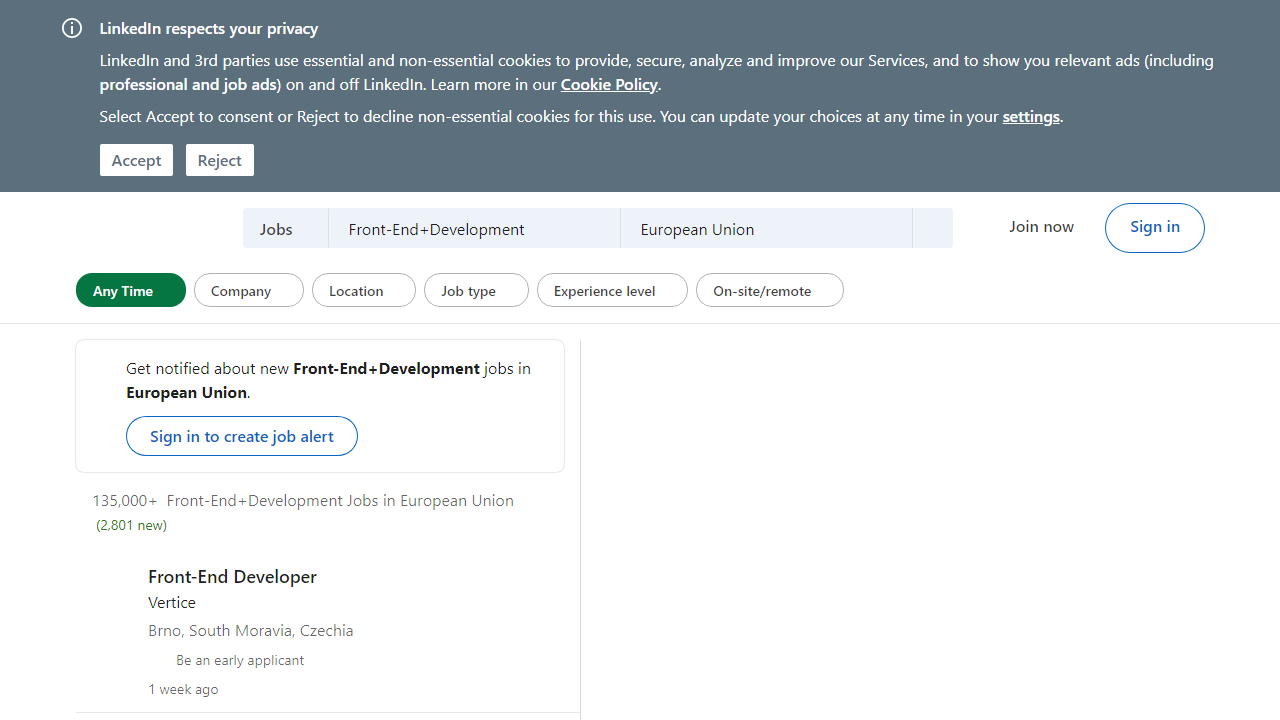
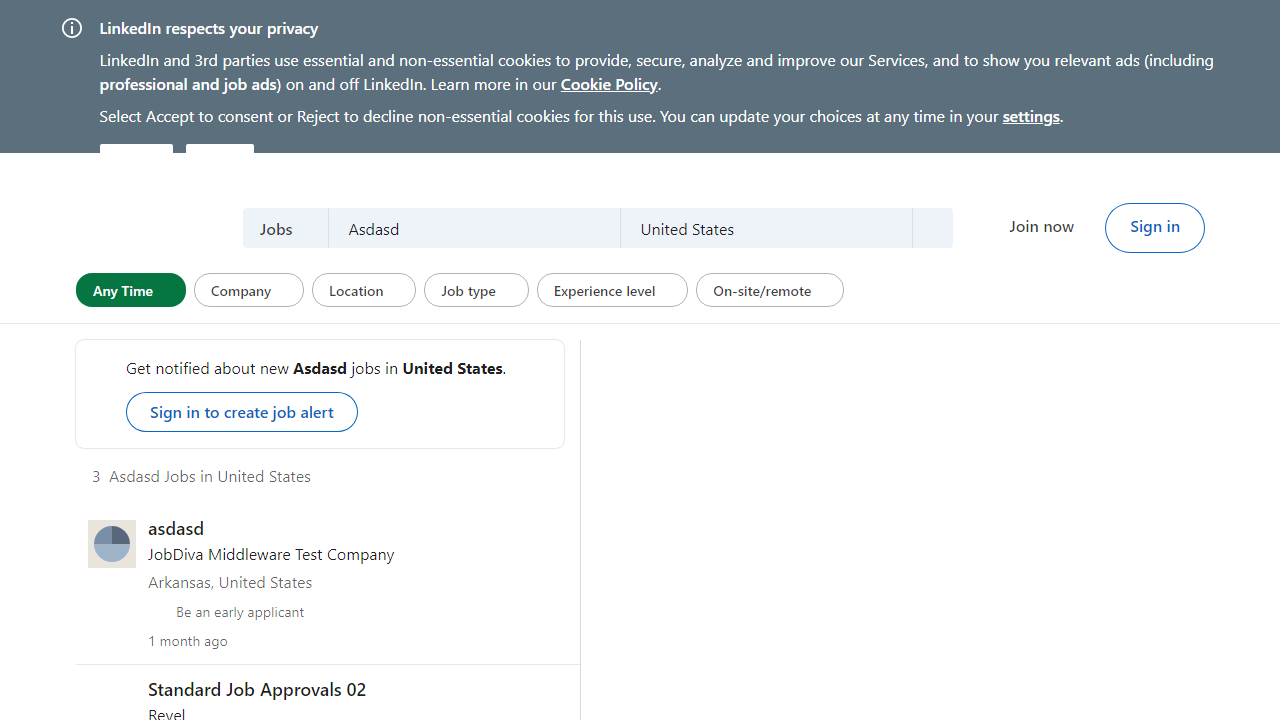
scrapping arguments

diff --git a/src/app/page.tsx b/src/app/page.tsx
@@ -1,3 +1,4 @@
+/* eslint-disable @typescript-eslint/strict-boolean-expressions */
 /* eslint-disable @typescript-eslint/no-misused-promises */
 'use client'
 import JobCard from '@/components/jobCard'
@@ -26,15 +27,21 @@ import {
   PaginationNext,
   PaginationPrevious
 } from '@/components/ui/pagination'
+import { sendInputsData } from '@/lib/data'
+import type { TFormData } from './api/get_linkedin_data/route'
+import { useForm } from 'react-hook-form'
 
 export default function Home (): React.JSX.Element {
   const [selectedJob, setSelectedJob] = useState<number>(0)
+  const { register, getValues } = useForm()
+  const [dateInput, setDateInput] = useState({ date: 'any_time' })
+
   const { data, refetch, isLoading, isFetching } = useQuery({
     queryKey: ['data'],
     queryFn: async () => {
-      return await fetch(process.env.NEXT_PUBLIC_GET_LINKEDIN_DATA_ENDPOINT ?? '')
-        .then(async res => await res.json())
-        .then(data => data)
+      const data = getValues()
+      data.date = dateInput.date
+      return await sendInputsData(data as TFormData)
     },
     enabled: false
 
@@ -44,39 +51,43 @@ export default function Home (): React.JSX.Element {
     e.preventDefault()
     refetch().catch(err => { console.log(err) })
   }
-
+  console.log(data)
   return (
     <main className='max-w-[1200px] mx-auto max-h-[600px]'>
       {/* SEARCH BAR */}
       <form onSubmit={async (e) => { await handleSubmit(e) }} className='mt-2 flex justify-between gap-4 '>
-           {/* SEARCH PANEL */}
-        <div className='relative flex flex-grow gap-12 border-[2px] shadow-xl rounded-md p-6 border-muted-foreground self-start' >
+        {/* SEARCH PANEL */}
+        <div className='relative flex flex-grow gap-12 border-[2px] shadow-xl rounded-md p-6 pb-8 border-muted-foreground self-start' >
           <div className='absolute top-4 right-4'>
             <ModeToggle ></ModeToggle>
           </div>
           <div>
             <Label className='font-semibold text-lg' >Title</Label>
-            <Input className='mt-2' type='text' placeholder='Software developer..' ></Input>
+            <Input {...register('title')} className='mt-2' type='text' placeholder='Software developer..' ></Input>
+            {/* TITLE ERROR */}
+            <p className=' mt-2 text-red-500 text-[12px] absolute'>{data?.fieldErrors?.title ? data.fieldErrors.title[0] : null}</p>
           </div>
           <div >
             <Label className='font-semibold text-lg' >Location</Label>
             <div className='relative'>
-              <Input className='mt-2' type='text' placeholder='European union' ></Input>
+              <Input {...register('location')} className='mt-2' type='text' placeholder='European union' ></Input>
               <MapPin className='w-5 absolute right-2 top-2 text-muted-foreground'></MapPin>
+              {/* LOCATION ERROR */}
+              <p className='  mt-2 text-red-500 text-[12px] absolute'> {data?.fieldErrors?.location ? data.fieldErrors.location[0] : null}</p>
             </div>
           </div>
           <div className='flex flex-col'>
             <Label className='font-semibold text-lg' >Date Posted</Label>
-            <Select defaultValue={'Any time'}>
-                <SelectTrigger className='w-40 mt-2'>
-                  <SelectValue placeholder="Date Posted"></SelectValue>
-                </SelectTrigger>
-                <SelectContent >
-                  <SelectItem value="Any time">Any time</SelectItem>
-                  <SelectItem value="Past month">Past month</SelectItem>
-                  <SelectItem value="Past week">Past week</SelectItem>
-                  <SelectItem value="Past 24 hours">Past 24 hours</SelectItem>
-                </SelectContent>
+            <Select value={dateInput.date} onValueChange={(value) => { setDateInput(old => ({ ...old, date: value })) }} defaultValue={dateInput.date} >
+              <SelectTrigger className='w-40 mt-2'>
+                <SelectValue placeholder="Date Posted"></SelectValue>
+              </SelectTrigger>
+              <SelectContent >
+                <SelectItem value="any_time">Any time</SelectItem>
+                <SelectItem value="past_month">Past month</SelectItem>
+                <SelectItem value="past_week">Past week</SelectItem>
+                <SelectItem value="past_24_hours">Past 24 hours</SelectItem>
+              </SelectContent>
             </Select>
           </div>
           <Button className='mt-auto font-bold' variant={'default'} >Search</Button>
@@ -84,51 +95,50 @@ export default function Home (): React.JSX.Element {
       </form>
       {/* SEPARATOR */}
       <div className='my-5 bg-muted-foreground  rounded-lg relative '></div>
-              {/* JOBS LISTS */}
-            {isLoading || isFetching
-              ? <div className='flex flex-col gap-10 items-center justify-center mt-20'>
-                  <h1 className='   text-center text-3xl '>Searching jobs ...</h1>
-                  <Loader2 className=' w-40 h-40 animate-spin'></Loader2>
-              </div>
-              : data?.length > 0
-                ? <>
-                <div className='flex'>
-                    {/* JOB LISTING */}
-                    <ScrollArea className='max-h-[70vh] flex flex-col  items-start max-w-md border-[2px] shadow-xl rounded-md px-6 border-muted-foreground'>
-                      {data?.map((job: any, index: number) => (
-                          <div key={index} className={cn('w-full border-b-muted-foreground border-b pb-6  pt-6',
-                            { 'border-none': index === data.length - 1 })}>
-                            <JobCard onClick={() => { setSelectedJob(index) }} data={job}></JobCard>
-                          </div>
+      {/* JOBS LISTS */}
+      {isLoading || isFetching
+        ? <div className='flex flex-col gap-10 items-center justify-center mt-20'>
+          <h1 className='   text-center text-3xl '>Searching jobs ...</h1>
+          <Loader2 className=' w-40 h-40 animate-spin'></Loader2>
+        </div>
+        : data?.length > 0
+          ? <>
+            <div className='flex'>
+              {/* JOB LISTING */}
+              <ScrollArea className='max-h-[70vh] flex flex-col  items-start max-w-md border-[2px] shadow-xl rounded-md px-6 border-muted-foreground'>
+                {data?.map((job: any, index: number) => (
+                  <div key={index} className={cn('w-full border-b-muted-foreground border-b pb-6  pt-6',
+                    { 'border-none': index === data.length - 1 })}>
+                    <JobCard onClick={() => { setSelectedJob(index) }} data={job}></JobCard>
+                  </div>
 
-                      )) }
-                       <Pagination className='mt-8'>
-                    <PaginationContent>
-                      <PaginationItem>
-                        <PaginationPrevious href="#" />
-                      </PaginationItem>
-                      <PaginationItem>
-                        <PaginationLink href="#">1</PaginationLink>
-                      </PaginationItem>
-                      <PaginationItem>
-                        <PaginationEllipsis />
-                      </PaginationItem>
-                      <PaginationItem>
-                        <PaginationNext href="#" />
-                      </PaginationItem>
-                    </PaginationContent>
-                  </Pagination>
-                    </ScrollArea >
-                    {/* DETAIL PAGE */}
-                    <ScrollArea className='ml-10 flex  border-muted-foreground border-2 rounded-lg p-4 w-full max-h-[70vh] '>
-                        <div className='flex flex-col gap-32'>
-                           {data[selectedJob].title}
-                        </div>
-                    </ScrollArea>
+                ))}
+                <Pagination className='mt-8'>
+                  <PaginationContent>
+                    <PaginationItem>
+                      <PaginationPrevious href="#" />
+                    </PaginationItem>
+                    <PaginationItem>
+                      <PaginationLink href="#">1</PaginationLink>
+                    </PaginationItem>
+                    <PaginationItem>
+                      <PaginationEllipsis />
+                    </PaginationItem>
+                    <PaginationItem>
+                      <PaginationNext href="#" />
+                    </PaginationItem>
+                  </PaginationContent>
+                </Pagination>
+              </ScrollArea >
+              {/* DETAIL PAGE */}
+              <ScrollArea className='ml-10 flex  border-muted-foreground border-2 rounded-lg p-4 w-full max-h-[70vh] '>
+                <div className='flex flex-col gap-32'>
+                  {data[selectedJob].title}
                 </div>
-
-                </>
-                : <h1>Make your first Search</h1>}
+              </ScrollArea>
+            </div>
+          </>
+          : data?.length === 0 ? <h1>No results</h1> : <h1>Make your first search</h1> }
 
     </main>
   )

diff --git a/src/app/api/get_linkedin_data/getData.ts b/src/app/api/get_linkedin_data/getData.ts
@@ -1,28 +1,21 @@
-import { chromium } from 'playwright'
+import { chromium, devices } from 'playwright'
 // Linkedin Card Schema
-export interface Job {
-  title: string
-  location: string
-  salary: string | null
-  linkHref: string | null
-  date: string
 
-}
-
-const cardSchema = {
+const selectors = {
   card: '.base-card',
   link: '.base-card__full-link',
   location: '.job-search-card__location',
   salary: '.job-search-card__salary-info',
   time: 'time'
 }
-
-export async function getData (): Promise<Job[]> {
+// TODO
+// HANDLE ERROR WHEN DOESNT FIND ANY JOBS
+export async function getData ({ location, date, title }: Filter): Promise<Job[]> {
   const jobs = []
   try {
-    const linkedin = 'https://www.linkedin.com/jobs/search?keywords=Front-End%2BDevelopment&location=european%2Bunion&trk=public_jobs_jobs-search-bar_search-submit&currentJobId=3798420117&position=1&pageNum=0'
+    const linkedin = `https://www.linkedin.com/jobs/search?keywords=${title}&location=${location}&trk=public_jobs_jobs-search-bar_search-submit&currentJobId=3798420117&position=1&pageNum=0`
     const browser = await chromium.launch()
-    const context = await browser.newContext({ recordVideo: { dir: './' } })
+    const context = await browser.newContext(devices['Desktop Chrome'])
     const page = await context.newPage()
     await page.goto(linkedin)
     const cards = await page.locator('.base-card').all()
@@ -30,13 +23,13 @@ export async function getData (): Promise<Job[]> {
     // Looping through the whole page
 
     for (let i = 0; i < cards.length; i++) {
-      const title = (await cards[i].locator(cardSchema.link).textContent())?.trim() ?? ''
-      const linkHref = await cards[i].locator(cardSchema.link).getAttribute('href')
-      const location = (await cards[i].locator(cardSchema.location).textContent())?.trim() ?? ''
-      const date = (await cards[i].locator(cardSchema.time).textContent())?.trim() ?? ''
+      const title = (await cards[i].locator(selectors.link).textContent())?.trim() ?? ''
+      const linkHref = await cards[i].locator(selectors.link).getAttribute('href')
+      const location = (await cards[i].locator(selectors.location).textContent())?.trim() ?? ''
+      const date = (await cards[i].locator(selectors.time).textContent())?.trim() ?? ''
 
-      const salary = await cards[i].locator(cardSchema.salary).isVisible()
-        ? await cards[i].locator(cardSchema.salary).textContent()
+      const salary = await cards[i].locator(selectors.salary).isVisible()
+        ? await cards[i].locator(selectors.salary).textContent()
         : 'No salary'
 
       const job = { title, location, salary, linkHref, date }
@@ -51,9 +44,9 @@ export async function getData (): Promise<Job[]> {
     await rightJobTitle?.waitFor({ state: 'visible' })
     await page.screenshot({ path: './pictures/linkedin.png' })
     await browser.close()
-    await context.close()
   } catch (err) {
-    console.log('ERROR :', err)
+    console.log('\n SCRAPING ERROR ->', err, '\n')
+    return []
   }
   return jobs
 }

diff --git a/src/app/api/get_linkedin_data/route.ts b/src/app/api/get_linkedin_data/route.ts
@@ -1,14 +1,26 @@
 /* eslint-disable @typescript-eslint/strict-boolean-expressions */
 import { NextResponse } from 'next/server'
 import { getData } from './getData'
+import { z } from 'zod'
 
-export async function GET (req: Request): Promise<any> {
-  console.log(req.body)
-
-  const data = await getData()
-  return NextResponse.json(data)
+export async function POST (req: Request): Promise<NextResponse> {
+  const data = await req.json() as XMLHttpRequestBodyInit
+  const validData = dataSchema.safeParse(data)
+  if (validData.success) {
+    const jobs = await getData(validData.data)
+    return NextResponse.json(jobs)
+  } else {
+    return NextResponse.json(validData.error.flatten())
+  }
 }
 
-export function POST (req: Request): any {
-  console.log(req.body)
-}
+const dataSchema = z.object({
+  title: z.string().transform(e => e.replace(/\s+/g, '')).pipe(z.string().min(1, { message: 'Can not be empty' })
+    .regex(/[a-zA-Z]/, { message: 'Only letters and numbers' })),
+  location: z.string().transform(e => e.replace(/\s+/g, '')).pipe(z.string().min(1, { message: 'Can not be empty' })
+    .regex(/[a-zA-Z]/, { message: 'Only letters and numbers' })),
+  date: z.enum(['any_time', 'past_month', 'past_week', 'past_24_hours'])
+
+})
+
+export type TFormData = z.infer<typeof dataSchema>

diff --git a/src/lib/data.ts b/src/lib/data.ts
@@ -1,0 +1,12 @@
+import { type TFormData } from '@/app/api/get_linkedin_data/route'
+
+export async function sendInputsData (formData: TFormData): Promise<any> {
+  try {
+    const res = await fetch(process.env.NEXT_PUBLIC_GET_LINKEDIN_DATA_ENDPOINT ?? '',
+      { method: 'POST', headers: { 'Content-type': 'application/json' }, body: JSON.stringify(formData) })
+    const data = await res.json()
+    return data
+  } catch (err) {
+    throw new Error('Could not send the data to the server')
+  }
+}

diff --git a/types.d.ts b/types.d.ts
@@ -1,0 +1,13 @@
+interface Job {
+  title: string
+  location: string
+  salary: string | null
+  linkHref: string | null
+  date: string
+
+}
+interface Filter {
+  title: string
+  location: string
+  date: 'any_time' | 'past_month' | 'past_week' | 'past_24_hours'
+}
